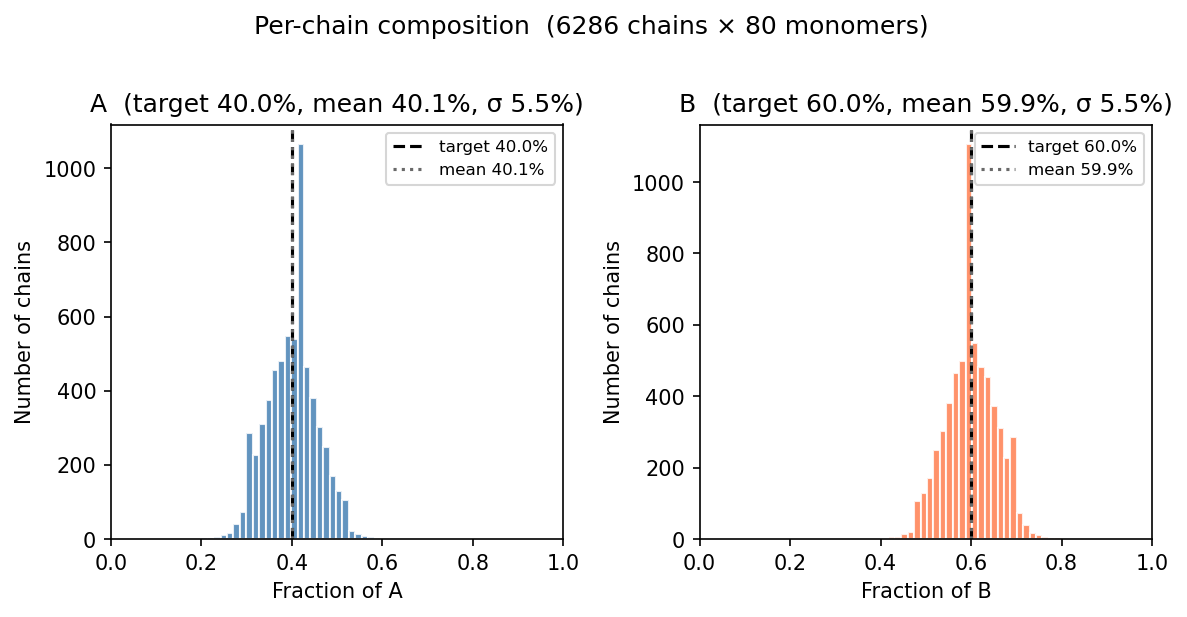
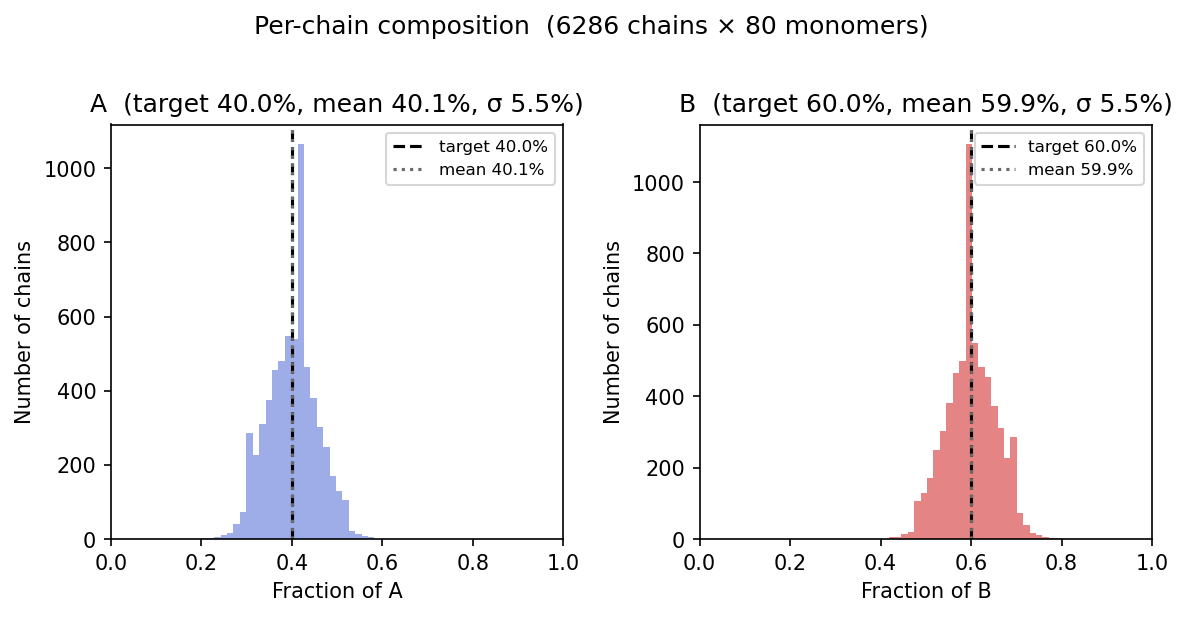
Aesthetic updates to composition histogram
Updated bar colors, removed white bar edges, and fixed x-axis to 0-1.

Changed region(s): [[0.187, 0.2464, 0.3117, 0.893], [0.7481, 0.2464, 0.8728, 0.893]]

diff --git a/repaint/display.py b/repaint/display.py
@@ -100,8 +100,8 @@ def show_random_confirmation(
 
 
 _PLOT_COLORS = [
-    'steelblue', 'coral', 'mediumseagreen', 'mediumpurple',
-    'sandybrown', 'lightcoral', 'turquoise', 'khaki',
+    '#8D9EE3', '#E16F6E', '#C6D034',
+    'mediumpurple', 'sandybrown', 'lightcoral', 'turquoise', 'khaki',
 ]
 
 
@@ -152,7 +152,7 @@ def save_composition_histogram(df_repainted, labels, probs, output_path):
         std = variance ** 0.5
 
         color = _PLOT_COLORS[i % len(_PLOT_COLORS)]
-        ax.hist(frac, bins=n_bins, color=color, edgecolor='white', alpha=0.85)
+        ax.hist(frac, bins=n_bins, color=color, edgecolor='none', alpha=0.85)
         ax.axvline(target, color='black',   linestyle='--', linewidth=1.5, label=f'target {target:.1%}')
         ax.axvline(mean,   color='dimgray', linestyle=':',  linewidth=1.5, label=f'mean {mean:.1%}')
         ax.set_xlim(0, 1)
